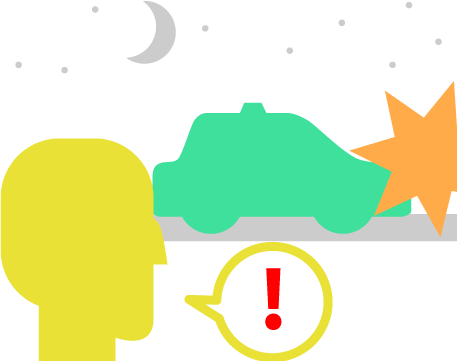
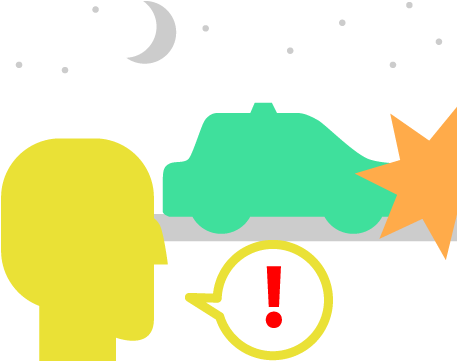
* background is now white * intro graphics in progress * better button layout * typo fixed

diff --git a/css/style.css b/css/style.css
@@ -1,1 +1,1 @@
-*{margin:0;padding:0;box-sizing:border-box}button{border:none;font-family:inherit}button:focus{outline:none}ul{list-style:none}body{font-family:'Istok Web', sans-serif}a{text-decoration:none}body{background:#cccccc;display:flex;height:100vh;justify-content:center;flex-direction:column;color:#113A27;transition:background-color .4s;min-height:600px;min-width:960px}body.credits{background:#113A27}body.credits main{background:transparent}.main-wrapper{display:flex;justify-content:center;flex:1}main{width:960px;height:540px;background:white;align-self:center;position:relative;transition:background-color .4s}footer{bottom:0;left:0;right:0;margin-top:auto;height:60px;background:#113A27;position:relative}footer nav{display:flex;width:560px;height:100%;justify-content:space-between;align-items:center;margin:0 auto}footer nav button{min-width:64px;height:36px;font-weight:bold;line-height:26px;background:#4AFFAD;border-radius:2px}footer nav button:hover{background:#E6FFF3}footer nav button.current{background:#E6FFF3}footer .share-buttons{position:absolute;right:12px;display:flex;bottom:0;top:0;align-items:center;justify-content:space-between;width:120px}footer .share-buttons>a{color:#4AFFAD;transition:.15s color}footer .share-buttons>a:hover{color:#E6FFF3}footer .share-buttons>a>svg{fill:currentColor;width:36px;height:36px}h1{font-size:28px;font-weight:normal;margin-bottom:14px}p{font-size:18px;margin-bottom:10px}button{color:inherit;font-size:24px;padding:5px 10px;transition:.15s}button:hover:not(:active){filter:drop-shadow(0px 3px 0px rgba(0,0,0,0.8));transform:translateY(-3px)}button.collapsed{display:none}button.wide{min-width:280px}button.cta{background:#E6FFF3;border:solid 4px #3FE09C;border-radius:6px}button.basic{background:#4AFFAD;border-radius:6px}button.basic.disabled{background:#cccccc;pointer-events:none}span.bold{font-weight:bold}span.cta{background:#E6FFF3;padding:3px}.slide{position:absolute;transition:.4s;padding:20px;display:flex;flex-direction:column;width:100%;height:100%}.slide:not(.active){opacity:0;pointer-events:none;transform:translateY(-10px)}.slide.collapsed{display:none !important}.slide#intro{align-items:center;text-align:center}.slide#intro>p:first-of-type{font-size:24px}.slide#intro>h1{font-size:48px;margin-bottom:24px}.slide#intro .play-time{opacity:0.5}.slide#intro>button{margin-top:auto}.slide#slide1 .top-part{display:flex;height:100%;min-height:0;padding-bottom:20px}.slide#slide1 .top-part .text-container{width:463px;position:relative;margin-right:10px}.slide#slide1 .top-part .text-container section{position:absolute;transition:.4s}.slide#slide1 .top-part .text-container section.collapsed{opacity:0;pointer-events:none}.slide#slide1 .top-part .illustration{flex-grow:1;margin-right:-20px;margin-left:10px}.slide#slide1 .bottom-part{margin-top:auto;display:flex;min-height:50px;align-items:center}.slide#slide1 .bottom-part button.cta{margin:0 auto}.slide#slide1 #percent-buttons{display:flex;justify-content:space-between;width:100%}.slide#slide1 #percent-buttons.collapsed{display:none}.slide#slide1 #percent-buttons button{border-radius:6px;width:76px}.slide#slide1 #percent-buttons button#percent0{background:#83FB4C}.slide#slide1 #percent-buttons button#percent10{background:#7DF45D}.slide#slide1 #percent-buttons button#percent20{background:#77EE6E}.slide#slide1 #percent-buttons button#percent30{background:#70E780}.slide#slide1 #percent-buttons button#percent40{background:#6AE18F}.slide#slide1 #percent-buttons button#percent50{background:#64DBA0}.slide#slide1 #percent-buttons button#percent60{background:#5DD5B1}.slide#slide1 #percent-buttons button#percent70{background:#57CEC3}.slide#slide1 #percent-buttons button#percent80{background:#50C8D4}.slide#slide1 #percent-buttons button#percent90{background:#4AC2E5}.slide#slide1 #percent-buttons button#percent100{background:#43BBF6}.slide#slide2{align-items:center}.slide#slide2 .centered-text{text-align:center;width:82%;margin-bottom:10px}.slide#slide2 .bottom-part{margin-top:auto;display:flex;flex-direction:column;align-items:center;transition:.4s}.slide#slide2 .bottom-part.collapsed{transform:translateY(-10px);opacity:0;pointer-events:none}.slide#slide2 .bottom-part button.cta{margin:0 auto}.slide#slide3 .cabs-slider{margin-bottom:10px}.slide#slide3 .main-explanation{flex-grow:1;padding-top:10px;display:flex;border-top:2px solid #cccccc}.slide#slide3 .main-explanation .explanation-text{flex-grow:1;width:100%;margin-right:10px}.slide#slide3 .main-explanation .explanation-text>section{display:flex;flex-direction:column;position:absolute;width:450px;height:396px;transition:.4s}.slide#slide3 .main-explanation .explanation-text>section .top-part{flex-grow:1}.slide#slide3 .main-explanation .explanation-text>section .bottom-part{display:flex;flex-direction:column;align-items:center}.slide#slide3 .main-explanation .explanation-text>section .bottom-part p{text-align:center}.slide#slide3 .main-explanation .explanation-text>section .bottom-part section{display:flex;flex-direction:column;align-items:center}.slide#slide3 .main-explanation .explanation-text>section.collapsed{opacity:0;pointer-events:none}.slide#slide3 .main-explanation .explanation-text>section section.collapsed{display:none}.slide#slide3 .main-explanation .explanation-graphic{flex-grow:1;width:100%;margin-left:10px}.slide#slide4 .top-controllers{display:flex;margin-bottom:10px}.slide#slide4 .top-controllers>section{flex-grow:1;margin:0 10px}.slide#slide4 .top-controllers>section:first-child{margin-left:0}.slide#slide4 .top-controllers>section:last-child{margin-right:0}.slide#slide4 .top-controllers .separator{display:flex}.slide#slide4 .top-controllers .separator::before{content:"";border:2px solid lightgrey;border-radius:5px}.slide#slide4 .main-explanation{display:flex;flex-direction:column;align-items:stretch;flex:1}.slide#slide4 .centered-text{text-align:center;width:86%}.slide#slide4 .top-part{display:flex;flex-direction:column;align-items:center;flex-grow:1;margin-top:30px}.slide#slide4 .bottom-part{display:flex;flex-direction:column;align-items:center}.slide#slide4 img{margin:10px 0}.slide#slide5 .top-controllers{display:flex;margin-bottom:10px}.slide#slide5 .top-controllers>section{flex-grow:1;margin:0 10px}.slide#slide5 .top-controllers>section:first-child{margin-left:0}.slide#slide5 .top-controllers>section:last-child{margin-right:0}.slide#slide5 .top-controllers .separator{display:flex}.slide#slide5 .top-controllers .separator::before{content:"";border:2px solid lightgrey;border-radius:5px}.slide#slide5 .main-explanation{flex-grow:1;padding-top:10px;display:flex;border-top:2px solid #cccccc}.slide#slide5 .main-explanation .explanation-text{flex-grow:1;margin-right:10px}.slide#slide5 .main-explanation .explanation-text>section{display:flex;flex-direction:column;position:absolute;width:520px;height:436px;transition:.4s}.slide#slide5 .main-explanation .explanation-text>section.collapsed{opacity:0;pointer-events:none}.slide#slide5 .main-explanation .explanation-graphic{margin-left:10px;display:flex;flex-direction:column;align-items:center;justify-content:center}.slide#slide5 .main-explanation .top-part{display:flex;flex-direction:column;align-items:center;flex-grow:1}.slide#slide5 .main-explanation .top-part p{width:100%}.slide#slide5 .main-explanation .bottom-part{display:flex;flex-direction:column;align-items:center}.slide#slide5 .main-explanation .centered-text{text-align:center}.slide#slide5 .wintnessed-cabs-example{display:flex;align-items:center}.slide#slide5 .wintnessed-cabs-example>svg{width:72.887px;height:81.829px;transform:scale(0.8);margin:0 10px}.slide#slide5 .wintnessed-cabs-example>svg:first-child{margin-left:0}.slide#slide5 .wintnessed-cabs-example>svg:last-child{margin-right:0}.slide#slide5 .witness-cabs{background-image:url("../images/witnessCabsBase.png");width:380px;height:380px}.slide#slide5 .witness-cabs ul.witnessed-cabs{position:relative}.slide#slide5 .witness-cabs ul.witnessed-cabs>li{position:absolute;width:0;height:0}.slide#slide5 .witness-cabs ul.witnessed-cabs>li>svg{position:absolute;transform:translate(-50%, -50%);width:72.887px;height:81.829px;transition:opacity 0.2s}.slide#slide5 .witness-cabs ul.witnessed-cabs>li.blue_seenblue>svg.blue_seenblue{z-index:2;opacity:1}.slide#slide5 .witness-cabs ul.witnessed-cabs>li.blue_seenblue>svg:not(.blue_seenblue){opacity:0}.slide#slide5 .witness-cabs ul.witnessed-cabs>li.blue_seengreen>svg.blue_seengreen{z-index:2;opacity:1}.slide#slide5 .witness-cabs ul.witnessed-cabs>li.blue_seengreen>svg:not(.blue_seengreen){opacity:0}.slide#slide5 .witness-cabs ul.witnessed-cabs>li.green_seengreen>svg.green_seengreen{z-index:2;opacity:1}.slide#slide5 .witness-cabs ul.witnessed-cabs>li.green_seengreen>svg:not(.green_seengreen){opacity:0}.slide#slide5 .witness-cabs ul.witnessed-cabs>li.green_seenblue>svg.green_seenblue{z-index:2;opacity:1}.slide#slide5 .witness-cabs ul.witnessed-cabs>li.green_seenblue>svg:not(.green_seenblue){opacity:0}.slide#slide6 .top-controllers{display:flex;margin-bottom:10px}.slide#slide6 .top-controllers>section{flex-grow:1;margin:0 10px}.slide#slide6 .top-controllers>section:first-child{margin-left:0}.slide#slide6 .top-controllers>section:last-child{margin-right:0}.slide#slide6 .top-controllers .separator{display:flex}.slide#slide6 .top-controllers .separator::before{content:"";border:2px solid lightgrey;border-radius:5px}.slide#slide6 .main-explanation{flex-grow:1;padding-top:10px;display:flex;border-top:2px solid #cccccc}.slide#slide6 .main-explanation .explanation-text{flex-grow:1;width:100%;margin-right:10px;display:flex;flex-direction:column}.slide#slide6 .main-explanation .explanation-text>section{display:flex;flex-direction:column;position:absolute;width:450px;height:396px;transition:.4s}.slide#slide6 .main-explanation .explanation-text>section .top-part{flex-grow:1}.slide#slide6 .main-explanation .explanation-text>section .bottom-part{display:flex;flex-direction:column;align-items:center}.slide#slide6 .main-explanation .explanation-text>section .bottom-part p{text-align:center}.slide#slide6 .main-explanation .explanation-text>section .bottom-part section{display:flex;flex-direction:column;align-items:center}.slide#slide6 .main-explanation .explanation-text>section.collapsed{opacity:0;pointer-events:none}.slide#slide6 .main-explanation .explanation-text>section section.collapsed{display:none}.slide#slide6 .main-explanation .explanation-text .top-part{flex-grow:1}.slide#slide6 .main-explanation .explanation-text .bottom-part{display:flex;flex-direction:column;align-items:center}.slide#slide6 .main-explanation .explanation-graphic{flex-grow:1;width:100%;margin-left:10px}.slide#credits{color:white;align-items:center;text-align:center}.slide#credits>header{position:relative}.slide#credits>header .created-by{font-size:26px;margin-bottom:0}.slide#credits>header>h1{font-size:48px;color:#4AFFAD}.slide#credits>header .for-eej{font-size:20px}.slide#credits>header .not-blue{position:absolute;top:80px;right:-20px;opacity:1;font-size:12px}.slide#credits .bottom-part{text-align:left;margin-top:auto;background:rgba(255,255,255,0.05);padding:20px}.slide#credits p{margin-bottom:15px}.slide#credits p:last-child{margin-bottom:0}.slide#credits a{color:#4AFFAD;text-decoration:underline;transition:.15s color}.slide#credits a:hover{color:#E6FFF3}.side-by-side-buttons{display:flex;justify-content:space-between}.report-box{background:#cccccc;padding:10px;margin-bottom:20px}.report-box header{text-decoration:underline}.cabs-slider{width:100%;position:relative;height:84px;display:flex;flex-direction:column}.cabs-slider .cabs-slider-slider{position:absolute;padding:2.5%;margin:-2.5%}.cabs-slider .cabs-slider-slider>svg{width:22.584px;height:83.922px;transform-origin:top center;fill:#3FE09C;transition:fill .15s}.cabs-slider .cabs-slider-slider>svg>use{pointer-events:none}@keyframes ftue-hop{60%{transform:scaleY(1) translateY(0);animation-timing-function:ease-in-out}70%{transform:scaleY(0.8);animation-timing-function:ease-out}80%{transform:scaleY(1.1) translateY(-20px);animation-timing-function:ease-in}90%{transform:scaleY(0.85) translateY(0);animation-timing-function:ease-out}100%{transform:scaleY(1) translateY(0);animation-timing-function:ease-in-out}}.cabs-slider .cabs-slider-slider.ftue-hop>svg{animation:ftue-hop 6s 6s infinite;transform-origin:bottom center}.cabs-slider .cabs-slider-slider:hover>svg{fill:#91edc7}.cabs-slider .cabs-slider-slider.disabled{pointer-events:none}.cabs-slider .cabs-slider-slider.disabled>svg{fill:#cccccc}.cabs-slider ul.cabs-slider-cabs{display:flex;justify-content:space-evenly;margin-top:auto;margin-bottom:10px}.cabs-slider ul.cabs-slider-cabs>li{width:72.887px;height:36.896px}.cabs-slider ul.cabs-slider-cabs>li>svg{width:72.887px;height:36.896px;transition:fill .4s;fill:#83FB4C}.cabs-slider ul.cabs-slider-cabs>li>svg.blue{fill:#43BBF6}.cabs-slider.half-size{height:42px}.cabs-slider.half-size .cabs-slider-slider>svg{width:11.292px;height:41.961px}.cabs-slider.half-size ul.cabs-slider-cabs{margin-bottom:5px}.cabs-slider.half-size ul.cabs-slider-cabs>li{width:36.4435px;height:18.448px}.cabs-slider.half-size ul.cabs-slider-cabs>li>svg{width:36.4435px;height:18.448px}.witness-slider{width:100%;position:relative;height:84px;display:flex;flex-direction:column}.witness-slider .witness-slider-slider{position:absolute;padding:2.5%;margin:-2.5%}.witness-slider .witness-slider-slider>svg{width:22.584px;height:83.922px;transform-origin:top center;fill:#3FE09C;transition:fill .15s}.witness-slider .witness-slider-slider>svg>use{pointer-events:none}.witness-slider .witness-slider-slider:hover>svg{fill:#91edc7}.witness-slider .witness-slider-slider.disabled{pointer-events:none}.witness-slider .witness-slider-slider.disabled>svg{fill:#cccccc}.witness-slider ul.witness-slider-heads{display:flex;justify-content:space-evenly;margin-top:auto;margin-bottom:10px}.witness-slider ul.witness-slider-heads>li{width:40.635px;height:60.075px;position:relative}.witness-slider ul.witness-slider-heads>li>svg{position:absolute;width:40.635px;height:60.075px;transition:opacity .4s}.witness-slider ul.witness-slider-heads>li.right>svg.right{opacity:1}.witness-slider ul.witness-slider-heads>li.right>svg:not(.right){opacity:0}.witness-slider ul.witness-slider-heads>li:not(.right)>svg.right{opacity:0}.witness-slider ul.witness-slider-heads>li:not(.right)>svg:not(.right){opacity:1}.witness-slider.half-size{height:42px}.witness-slider.half-size .witness-slider-slider>svg{width:11.292px;height:41.961px}.witness-slider.half-size ul.witness-slider-heads{margin-bottom:1px}.witness-slider.half-size ul.witness-slider-heads>li{width:20.3175px;height:30.0375px}.witness-slider.half-size ul.witness-slider-heads>li>svg{width:20.3175px;height:30.0375px}.explanation-graphic .taxidentville-graphics-container{position:relative}.explanation-graphic .taxidentville-graphics-container svg{position:absolute}.explanation-graphic .taxidentville-graphics-container svg.accident{width:60px;height:60px}.explanation-graphic .taxidentville-graphics-container svg.ville-cab{width:60px;height:30.516px;fill:#83FB4C;transition:fill .4s}.explanation-graphic .taxidentville-graphics-container svg.ville-cab.blue{fill:#43BBF6}
+*{margin:0;padding:0;box-sizing:border-box}button{border:none;font-family:inherit}button:focus{outline:none}ul{list-style:none}body{font-family:'Istok Web', sans-serif}a{text-decoration:none}body{display:flex;height:100vh;justify-content:center;flex-direction:column;color:#113A27;transition:background-color .4s;min-height:600px;min-width:960px}body.credits{background:#113A27}body.credits main{background:transparent}.main-wrapper{display:flex;justify-content:center;flex:1}main{width:960px;height:540px;align-self:center;position:relative;transition:background-color .4s}footer{bottom:0;left:0;right:0;margin-top:auto;height:60px;background:#113A27;position:relative}footer nav{display:flex;width:560px;height:100%;justify-content:space-between;align-items:center;margin:0 auto}footer nav button{min-width:64px;height:36px;font-weight:bold;line-height:26px;background:#4AFFAD;border-radius:2px}footer nav button:hover{background:#E6FFF3}footer nav button.current{background:#E6FFF3}footer .share-buttons{position:absolute;right:12px;display:flex;bottom:0;top:0;align-items:center;justify-content:space-between;width:120px}footer .share-buttons>a{color:#4AFFAD;transition:.15s color}footer .share-buttons>a:hover{color:#E6FFF3}footer .share-buttons>a>svg{fill:currentColor;width:36px;height:36px}h1{font-size:28px;font-weight:normal;margin-bottom:14px}p{font-size:18px;margin-bottom:10px}button{color:inherit;font-size:24px;padding:5px 10px;transition:.15s}button:hover:not(:active){filter:drop-shadow(0px 3px 0px rgba(0,0,0,0.8));transform:translateY(-3px)}button.collapsed{display:none}button.wide{min-width:280px}button.cta{background:#E6FFF3;border:solid 4px #3FE09C;border-radius:6px}button.basic{background:#4AFFAD;border-radius:6px}button.basic.disabled{background:#cccccc;pointer-events:none}span.bold{font-weight:bold}span.cta{background:#E6FFF3;padding:3px}.slide{position:absolute;transition:.4s;padding:20px;display:flex;flex-direction:column;width:100%;height:100%}.slide:not(.active){opacity:0;pointer-events:none;transform:translateY(-10px)}.slide.collapsed{display:none !important}.slide#intro{align-items:center;text-align:center}.slide#intro>p:first-of-type{font-size:24px}.slide#intro>h1{font-size:48px;margin-bottom:24px}.slide#intro .play-time{color:#889d93}.slide#intro .intro-animation-container{margin:auto 0;position:relative;overflow:hidden;width:100vw;flex:1}.slide#intro .intro-animation-container>*{position:absolute;left:-800px;right:-800px;top:calc(40% + (1 - var(--depth)) * -6%);transform:scale(calc(1 + var(--depth) / 10))}.slide#intro .intro-animation-container>*>*{position:absolute}.slide#intro .intro-animation-container>*:nth-child(1){--depth:-3}.slide#intro .intro-animation-container>*:nth-child(2){--depth:-2}.slide#intro .intro-animation-container>*:nth-child(3){--depth:-1}.slide#intro .intro-animation-container>*:nth-child(4){--depth:1}.slide#intro .intro-animation-container>*:nth-child(5){--depth:2}.slide#intro .intro-animation-container>*:nth-child(6){--depth:3}.slide#intro .intro-animation-container>*.cabs-container{overflow:hidden;height:36.896px}.slide#intro .intro-animation-container>*.cabs-container svg{width:72.887px;height:36.896px;fill:#3FE09C;position:absolute;left:-72.887px;transition:left 10s linear}.slide#intro .intro-animation-container>*.cabs-container svg.drive{left:100%}.slide#intro .intro-animation-container>*.cabs-container svg.green{fill:#83FB4C}.slide#intro .intro-animation-container>*.cabs-container svg.blue{fill:#43BBF6}.slide#slide1 .top-part{display:flex;height:100%;min-height:0;padding-bottom:20px}.slide#slide1 .top-part .text-container{width:463px;position:relative;margin-right:10px}.slide#slide1 .top-part .text-container section{position:absolute;transition:.4s}.slide#slide1 .top-part .text-container section.collapsed{opacity:0;pointer-events:none}.slide#slide1 .top-part .illustration{flex-grow:1;margin-right:-20px;margin-left:10px}.slide#slide1 .bottom-part{margin-top:auto;display:flex;min-height:50px;align-items:center}.slide#slide1 .bottom-part button.cta{margin:0 auto}.slide#slide1 #percent-buttons{display:flex;justify-content:space-between;width:100%}.slide#slide1 #percent-buttons.collapsed{display:none}.slide#slide1 #percent-buttons button{border-radius:6px;width:76px}.slide#slide1 #percent-buttons button#percent0{background:#83FB4C}.slide#slide1 #percent-buttons button#percent10{background:#7DF45D}.slide#slide1 #percent-buttons button#percent20{background:#77EE6E}.slide#slide1 #percent-buttons button#percent30{background:#70E780}.slide#slide1 #percent-buttons button#percent40{background:#6AE18F}.slide#slide1 #percent-buttons button#percent50{background:#64DBA0}.slide#slide1 #percent-buttons button#percent60{background:#5DD5B1}.slide#slide1 #percent-buttons button#percent70{background:#57CEC3}.slide#slide1 #percent-buttons button#percent80{background:#50C8D4}.slide#slide1 #percent-buttons button#percent90{background:#4AC2E5}.slide#slide1 #percent-buttons button#percent100{background:#43BBF6}.slide#slide2{align-items:center}.slide#slide2 .centered-text{text-align:center;width:82%;margin-bottom:10px}.slide#slide2 .bottom-part{margin-top:auto;display:flex;flex-direction:column;align-items:center;transition:.4s}.slide#slide2 .bottom-part.collapsed{transform:translateY(-10px);opacity:0;pointer-events:none}.slide#slide2 .bottom-part button.cta{margin:0 auto}.slide#slide3 .cabs-slider{margin-bottom:10px}.slide#slide3 .main-explanation{flex-grow:1;padding-top:10px;display:flex;border-top:2px solid #cccccc}.slide#slide3 .main-explanation .explanation-text{flex-grow:1;width:100%;margin-right:10px}.slide#slide3 .main-explanation .explanation-text>section{display:flex;flex-direction:column;position:absolute;width:450px;height:396px;transition:.4s}.slide#slide3 .main-explanation .explanation-text>section .top-part{flex-grow:1}.slide#slide3 .main-explanation .explanation-text>section .bottom-part{display:flex;flex-direction:column}.slide#slide3 .main-explanation .explanation-text>section .bottom-part p{text-align:center}.slide#slide3 .main-explanation .explanation-text>section .bottom-part section{display:flex;flex-direction:column;align-items:center}.slide#slide3 .main-explanation .explanation-text>section.collapsed{opacity:0;pointer-events:none}.slide#slide3 .main-explanation .explanation-text>section section.collapsed{display:none}.slide#slide3 .main-explanation .explanation-graphic{flex-grow:1;width:100%;margin-left:10px}.slide#slide4 .top-controllers{display:flex;margin-bottom:10px}.slide#slide4 .top-controllers>section{flex-grow:1;margin:0 10px}.slide#slide4 .top-controllers>section:first-child{margin-left:0}.slide#slide4 .top-controllers>section:last-child{margin-right:0}.slide#slide4 .top-controllers .separator{display:flex}.slide#slide4 .top-controllers .separator::before{content:"";border:2px solid lightgrey;border-radius:5px}.slide#slide4 .main-explanation{display:flex;flex-direction:column;align-items:stretch;flex:1}.slide#slide4 .centered-text{text-align:center;width:86%}.slide#slide4 .top-part{display:flex;flex-direction:column;align-items:center;flex-grow:1;margin-top:30px}.slide#slide4 .bottom-part{display:flex;flex-direction:column;align-items:center}.slide#slide4 img{margin:10px 0}.slide#slide5 .top-controllers{display:flex;margin-bottom:10px}.slide#slide5 .top-controllers>section{flex-grow:1;margin:0 10px}.slide#slide5 .top-controllers>section:first-child{margin-left:0}.slide#slide5 .top-controllers>section:last-child{margin-right:0}.slide#slide5 .top-controllers .separator{display:flex}.slide#slide5 .top-controllers .separator::before{content:"";border:2px solid lightgrey;border-radius:5px}.slide#slide5 .main-explanation{flex-grow:1;padding-top:10px;display:flex;border-top:2px solid #cccccc}.slide#slide5 .main-explanation .explanation-text{flex-grow:1;margin-right:10px}.slide#slide5 .main-explanation .explanation-text>section{display:flex;flex-direction:column;position:absolute;width:520px;height:436px;transition:.4s}.slide#slide5 .main-explanation .explanation-text>section.collapsed{opacity:0;pointer-events:none}.slide#slide5 .main-explanation .explanation-graphic{margin-left:10px;display:flex;flex-direction:column;align-items:center;justify-content:center}.slide#slide5 .main-explanation .top-part{display:flex;flex-direction:column;align-items:center;flex-grow:1}.slide#slide5 .main-explanation .top-part p{width:100%}.slide#slide5 .main-explanation .bottom-part{display:flex;flex-direction:column;align-items:center}.slide#slide5 .main-explanation .centered-text{text-align:center}.slide#slide5 .wintnessed-cabs-example{display:flex;align-items:center}.slide#slide5 .wintnessed-cabs-example>svg{width:72.887px;height:81.829px;transform:scale(0.8);margin:0 10px}.slide#slide5 .wintnessed-cabs-example>svg:first-child{margin-left:0}.slide#slide5 .wintnessed-cabs-example>svg:last-child{margin-right:0}.slide#slide5 .witness-cabs{background-image:url("../images/witnessCabsBase.png");width:380px;height:380px}.slide#slide5 .witness-cabs ul.witnessed-cabs{position:relative}.slide#slide5 .witness-cabs ul.witnessed-cabs>li{position:absolute;width:0;height:0}.slide#slide5 .witness-cabs ul.witnessed-cabs>li>svg{position:absolute;transform:translate(-50%, -50%);width:72.887px;height:81.829px;transition:opacity 0.2s}.slide#slide5 .witness-cabs ul.witnessed-cabs>li.blue_seenblue>svg.blue_seenblue{z-index:2;opacity:1}.slide#slide5 .witness-cabs ul.witnessed-cabs>li.blue_seenblue>svg:not(.blue_seenblue){opacity:0}.slide#slide5 .witness-cabs ul.witnessed-cabs>li.blue_seengreen>svg.blue_seengreen{z-index:2;opacity:1}.slide#slide5 .witness-cabs ul.witnessed-cabs>li.blue_seengreen>svg:not(.blue_seengreen){opacity:0}.slide#slide5 .witness-cabs ul.witnessed-cabs>li.green_seengreen>svg.green_seengreen{z-index:2;opacity:1}.slide#slide5 .witness-cabs ul.witnessed-cabs>li.green_seengreen>svg:not(.green_seengreen){opacity:0}.slide#slide5 .witness-cabs ul.witnessed-cabs>li.green_seenblue>svg.green_seenblue{z-index:2;opacity:1}.slide#slide5 .witness-cabs ul.witnessed-cabs>li.green_seenblue>svg:not(.green_seenblue){opacity:0}.slide#slide6 .top-controllers{display:flex;margin-bottom:10px}.slide#slide6 .top-controllers>section{flex-grow:1;margin:0 10px}.slide#slide6 .top-controllers>section:first-child{margin-left:0}.slide#slide6 .top-controllers>section:last-child{margin-right:0}.slide#slide6 .top-controllers .separator{display:flex}.slide#slide6 .top-controllers .separator::before{content:"";border:2px solid lightgrey;border-radius:5px}.slide#slide6 .main-explanation{flex-grow:1;padding-top:10px;display:flex;border-top:2px solid #cccccc}.slide#slide6 .main-explanation .explanation-text{flex-grow:1;width:100%;margin-right:10px;display:flex;flex-direction:column}.slide#slide6 .main-explanation .explanation-text>section{display:flex;flex-direction:column;position:absolute;width:450px;height:396px;transition:.4s}.slide#slide6 .main-explanation .explanation-text>section .top-part{flex-grow:1}.slide#slide6 .main-explanation .explanation-text>section .bottom-part{display:flex;flex-direction:column;align-items:center}.slide#slide6 .main-explanation .explanation-text>section .bottom-part p{text-align:center}.slide#slide6 .main-explanation .explanation-text>section .bottom-part section{display:flex;flex-direction:column;align-items:center}.slide#slide6 .main-explanation .explanation-text>section.collapsed{opacity:0;pointer-events:none}.slide#slide6 .main-explanation .explanation-text>section section.collapsed{display:none}.slide#slide6 .main-explanation .explanation-text .top-part{flex-grow:1}.slide#slide6 .main-explanation .explanation-text .bottom-part{display:flex;flex-direction:column;align-items:center}.slide#slide6 .main-explanation .explanation-graphic{flex-grow:1;width:100%;margin-left:10px}.slide#credits{color:white;align-items:center;text-align:center}.slide#credits>header{position:relative}.slide#credits>header .created-by{font-size:26px;margin-bottom:0}.slide#credits>header>h1{font-size:48px;color:#4AFFAD}.slide#credits>header .for-eej{font-size:20px}.slide#credits>header .not-blue{position:absolute;top:80px;right:-20px;opacity:1;font-size:12px}.slide#credits .bottom-part{text-align:left;margin-top:auto;background:rgba(255,255,255,0.05);padding:20px}.slide#credits p{margin-bottom:15px}.slide#credits p:last-child{margin-bottom:0}.slide#credits a{color:#4AFFAD;text-decoration:underline;transition:.15s color}.slide#credits a:hover{color:#E6FFF3}.side-by-side-buttons{display:flex}.side-by-side-buttons button{flex:1;margin:0 4px}.report-box{background:#cccccc;padding:10px;margin-bottom:20px}.report-box header{text-decoration:underline}.cabs-slider{width:100%;position:relative;height:84px;display:flex;flex-direction:column}.cabs-slider .cabs-slider-slider{position:absolute;padding:2.5%;margin:-2.5%}.cabs-slider .cabs-slider-slider>svg{width:22.584px;height:83.922px;transform-origin:top center;fill:#3FE09C;transition:fill .15s}.cabs-slider .cabs-slider-slider>svg>use{pointer-events:none}@keyframes ftue-hop{60%{transform:scaleY(1) translateY(0);animation-timing-function:ease-in-out}70%{transform:scaleY(0.8);animation-timing-function:ease-out}80%{transform:scaleY(1.1) translateY(-20px);animation-timing-function:ease-in}90%{transform:scaleY(0.85) translateY(0);animation-timing-function:ease-out}100%{transform:scaleY(1) translateY(0);animation-timing-function:ease-in-out}}.cabs-slider .cabs-slider-slider.ftue-hop>svg{animation:ftue-hop 6s 6s infinite;transform-origin:bottom center}.cabs-slider .cabs-slider-slider:hover>svg{fill:#91edc7}.cabs-slider .cabs-slider-slider.disabled{pointer-events:none}.cabs-slider .cabs-slider-slider.disabled>svg{fill:#cccccc}.cabs-slider ul.cabs-slider-cabs{display:flex;justify-content:space-evenly;margin-top:auto;margin-bottom:10px}.cabs-slider ul.cabs-slider-cabs>li{width:72.887px;height:36.896px}.cabs-slider ul.cabs-slider-cabs>li>svg{width:72.887px;height:36.896px;transition:fill .4s;fill:#83FB4C}.cabs-slider ul.cabs-slider-cabs>li>svg.blue{fill:#43BBF6}.cabs-slider.half-size{height:42px}.cabs-slider.half-size .cabs-slider-slider>svg{width:11.292px;height:41.961px}.cabs-slider.half-size ul.cabs-slider-cabs{margin-bottom:5px}.cabs-slider.half-size ul.cabs-slider-cabs>li{width:36.4435px;height:18.448px}.cabs-slider.half-size ul.cabs-slider-cabs>li>svg{width:36.4435px;height:18.448px}.witness-slider{width:100%;position:relative;height:84px;display:flex;flex-direction:column}.witness-slider .witness-slider-slider{position:absolute;padding:2.5%;margin:-2.5%}.witness-slider .witness-slider-slider>svg{width:22.584px;height:83.922px;transform-origin:top center;fill:#3FE09C;transition:fill .15s}.witness-slider .witness-slider-slider>svg>use{pointer-events:none}.witness-slider .witness-slider-slider:hover>svg{fill:#91edc7}.witness-slider .witness-slider-slider.disabled{pointer-events:none}.witness-slider .witness-slider-slider.disabled>svg{fill:#cccccc}.witness-slider ul.witness-slider-heads{display:flex;justify-content:space-evenly;margin-top:auto;margin-bottom:10px}.witness-slider ul.witness-slider-heads>li{width:40.635px;height:60.075px;position:relative}.witness-slider ul.witness-slider-heads>li>svg{position:absolute;width:40.635px;height:60.075px;transition:opacity .4s}.witness-slider ul.witness-slider-heads>li.right>svg.right{opacity:1}.witness-slider ul.witness-slider-heads>li.right>svg:not(.right){opacity:0}.witness-slider ul.witness-slider-heads>li:not(.right)>svg.right{opacity:0}.witness-slider ul.witness-slider-heads>li:not(.right)>svg:not(.right){opacity:1}.witness-slider.half-size{height:42px}.witness-slider.half-size .witness-slider-slider>svg{width:11.292px;height:41.961px}.witness-slider.half-size ul.witness-slider-heads{margin-bottom:1px}.witness-slider.half-size ul.witness-slider-heads>li{width:20.3175px;height:30.0375px}.witness-slider.half-size ul.witness-slider-heads>li>svg{width:20.3175px;height:30.0375px}.explanation-graphic .taxidentville-graphics-container{position:relative}.explanation-graphic .taxidentville-graphics-container svg{position:absolute}.explanation-graphic .taxidentville-graphics-container svg.accident{width:60px;height:60px}.explanation-graphic .taxidentville-graphics-container svg.ville-cab{width:60px;height:30.516px;fill:#83FB4C;transition:fill .4s}.explanation-graphic .taxidentville-graphics-container svg.ville-cab.blue{fill:#43BBF6}

diff --git a/scss/style.scss b/scss/style.scss
@@ -28,7 +28,7 @@ a {
 // end general
 
 body {
-    background: #cccccc;
+    // background: #cccccc;
     display: flex;
     height: 100vh;
     justify-content: center;
@@ -38,7 +38,7 @@ body {
     transition: background-color .4s;
     min-height: 600px;
     min-width: 960px;
-
+    
     &.credits {
         background: #113A27;
 
@@ -57,7 +57,7 @@ body {
 main {
     width: 960px;
     height: 540px;
-    background: white;
+    // background: white;
     align-self: center;
     position: relative;
 
@@ -209,11 +209,70 @@ span.cta {
         }
 
         .play-time {
-            opacity: 0.5;
+            color: #889d93;
+        }
+
+        // > p:last-of-type {
+        //     margin-top: auto;
+        // }
+
+        .intro-animation-container {
+            margin: auto 0;
+            position: relative;
+            overflow: hidden;
+            width: 100vw;
+            flex: 1;
+
+            > * {
+                position: absolute;
+                left: -800px;
+                right: -800px;
+
+                > * {
+                    position: absolute;
+                }                
+                
+                &:nth-child(1) { --depth: -3; }
+                &:nth-child(2) { --depth: -2; }
+                &:nth-child(3) { --depth: -1; }
+                &:nth-child(4) { --depth: 1; }
+                &:nth-child(5) { --depth: 2; }
+                &:nth-child(6) { --depth: 3; }
+
+                top: calc(40% + (1 - var(--depth)) * -6%);
+                transform: scale(calc(1 + var(--depth) / 10));
+
+                &.cabs-container {
+                    overflow: hidden;
+                    height: 36.896px;
+    
+                    svg {
+                        width: 72.887px;
+                        height: 36.896px;
+                        
+                        fill: #3FE09C;
+                        
+                        position: absolute;
+                        left: -72.887px;
+                        transition: left 10s linear;
+                        &.drive {
+                            left: 100%;
+                        }
+
+                        &.green {
+                            fill: #83FB4C;
+                        }
+
+                        &.blue {
+                            fill: #43BBF6;
+                        }
+                    }
+                }
+            }
         }
 
         > button {
-            margin-top: auto;
+            
         }
     }
 
@@ -368,7 +427,6 @@ span.cta {
                     .bottom-part {
                         display: flex;
                         flex-direction: column;
-                        align-items: center;
 
                         p {
                             text-align: center;
@@ -797,7 +855,11 @@ span.cta {
 
 .side-by-side-buttons {
     display: flex;
-    justify-content: space-between;
+    
+    button {
+        flex: 1;
+        margin: 0 4px;
+    }
 }
 
 .report-box {

diff --git a/index.html b/index.html
@@ -52,6 +52,26 @@
                     <p class="play-time">
                         play time: 8 min
                     </p>
+                    <div class="intro-animation-container">
+                        <div>
+                            <svg style="width: 72.887px; height: 36.896px; fill: rgba(0,128,0,0.5);"><use xlink:href="svg/sprite.svg#cab"></use></svg>
+                        </div>
+                        <div class="cabs-container">
+                            <svg><use xlink:href="svg/sprite.svg#cab"></use></svg>
+                        </div>
+                        <div>
+                                <svg style="width: 72.887px; height: 36.896px; fill: rgba(0,128,0,0.5);"><use xlink:href="svg/sprite.svg#cab"></use></svg>
+                        </div>
+                        <div>
+                                <svg style="width: 72.887px; height: 36.896px; fill: rgba(0,128,0,0.5);"><use xlink:href="svg/sprite.svg#cab"></use></svg>
+                        </div>
+                        <div class="cabs-container">
+                                <svg><use xlink:href="svg/sprite.svg#cab"></use></svg>
+                        </div>
+                        <div>
+                                <svg style="width: 72.887px; height: 36.896px; fill: rgba(0,128,0,0.5);"><use xlink:href="svg/sprite.svg#cab"></use></svg>
+                        </div>
+                    </div>
                     <p>
                         We'll start playing with simulations soon,<br/>
                         but first we should take a look at the original Taxi-cab Problem from 1982
@@ -303,7 +323,7 @@
                                     <p>
                                         Well done!<br/>
                                         Have you noticed? You’ve recreated our original question!<br/>
-                                        90% green cab, 10% blue, 80% accurate witness.<br/>
+                                        90% green cabs, 10% blue, 80% accurate witness.<br/>
                                         Only 1 out of the 3 “blue” cabs is really blue,<br/>
                                         that’s nearly 30%.
                                     </p>

diff --git a/src/ts/slides.ts b/src/ts/slides.ts
@@ -46,7 +46,7 @@ namespace Taxidentville {
         enter() {
             super.show();
         }    
-        leave() {            
+        leave() {
             super.hide();
             setTimeout(() => {
                 super.collapse();
